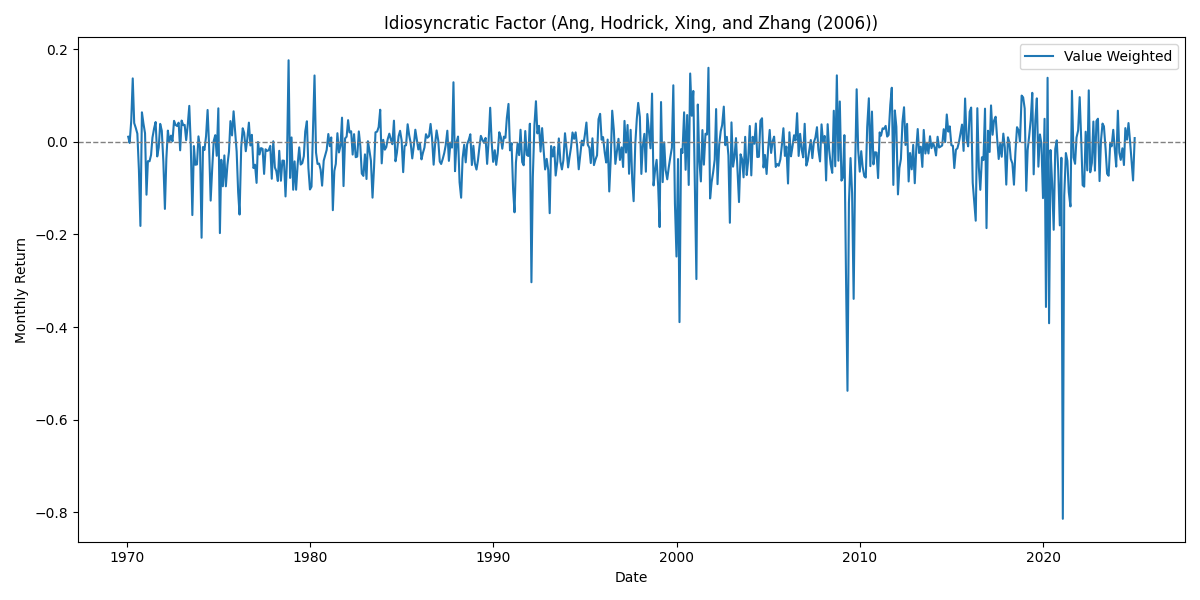
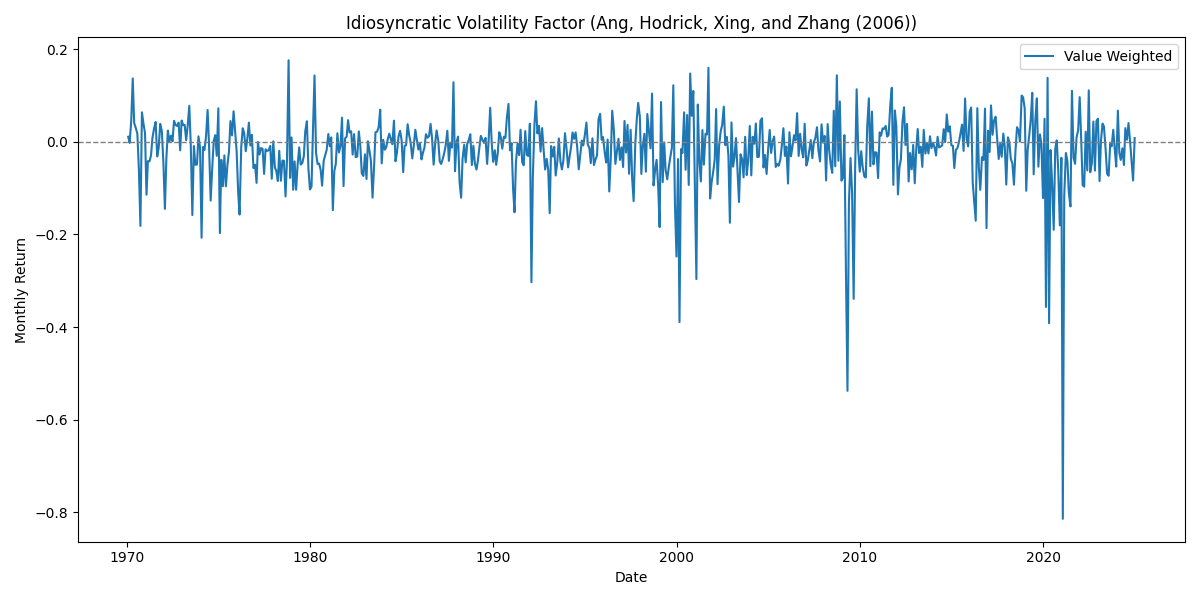
Add Equal Weighted and Risk Parity Portfolio

Changed region(s): [[0.2775, 0.03, 0.7708, 0.06]]

diff --git a/main.py b/main.py
@@ -9,6 +9,7 @@ import pandas as pd
 import matplotlib.pyplot as plt
 import wrds
 import time
+import importlib
 
 #  user-written modules
 import loading_data
@@ -18,6 +19,8 @@ import plots
 import momentum
 import idio_vol
 import CAPM_stats
+import optimal_fund
+importlib.reload(optimal_fund)
 
 pd.set_option('display.max_columns', None)
 pd.set_option('display.max_rows', None)
@@ -59,6 +62,8 @@ a = time.time()
 data = rolling_beta.beta_calculator(data, parquet_path=f'{project_path}/beta_parquet.parquet')
 b= time.time()
 print(f'Rolling Beta Calculation took {b-a: 0.2f} seconds')
+data = data.dropna(subset=['beta'])
+
 #----------------------------------------------------
 # Betting Against Beta (Frazzini & Pedersen (2014))
 #----------------------------------------------------
@@ -74,10 +79,15 @@ mom_factor = momentum.mom_return(mom_dataset)
 plots.signal_returns(mom_factor, 'date', 'MOM_return', 'Momentum Factor (Jegadeesh & Titman (1993))', 'Value Weighted', saving_path=f'{project_path}/momentum.png')
 CAPM_stats.statistics(mom_factor, 'MOM_return', mom_dataset)
 
-#--------------------------------------------------------
+#--------------------------------------------------------------
 # Idiosyncratic Strategy (Ang, Hodrick, Xing, and Zhang (2006))
-#---------------------------------------------------------
+#--------------------------------------------------------------
 idio_vol_dataset = data.copy()
 idio_vol_factor = idio_vol.ivol_return(idio_vol_dataset)
-plots.signal_returns(idio_vol_factor, 'date', 'IVOL_return', 'Idiosyncratic Factor (Ang, Hodrick, Xing, and Zhang (2006))', 'Value Weighted', saving_path=f'{project_path}/idio_vol.png')
+plots.signal_returns(idio_vol_factor, 'date', 'IVOL_return', 'Idiosyncratic Volatility Factor (Ang, Hodrick, Xing, and Zhang (2006))', 'Value Weighted', saving_path=f'{project_path}/idio_vol.png')
 CAPM_stats.statistics(idio_vol_factor, 'IVOL_return', idio_vol_dataset)
+
+#--------------------------------------------------------------
+# Optimal Fund Portfolio
+#--------------------------------------------------------------
+fund_portfolio = optimal_fund.fund_return(BAB_factor,mom_factor,idio_vol_factor)

diff --git a/optimal_fund.py b/optimal_fund.py
@@ -1,0 +1,32 @@
+import numpy as np
+import pandas as pd
+
+def risk_parity(data, window=12):
+    # Step 1: Compute rolling volatility and inverse vol weights
+    factors = data[['BAB_return', 'MOM_return', 'IVOL_return']]
+    volatility = factors.rolling(window=window).std()
+    inv_vol = 1 / volatility
+    RP_weights = inv_vol.div(inv_vol.sum(axis=1), axis=0).dropna()
+
+    # Step 2: Align the weights and returns on common dates
+    RiskParity = factors.copy()
+    common_dates = RP_weights.index.intersection(RiskParity.index)
+    RP_weights = RP_weights.loc[common_dates]
+    RiskParity = RiskParity.loc[common_dates]
+
+    # Step 3: Compute risk parity return
+    RiskParity['rp_return'] = (RP_weights * RiskParity).sum(axis=1)
+    RiskParity['date'] = data.loc[common_dates, 'date'].values
+    return RiskParity[['date', 'rp_return']]
+
+
+def fund_return(BAB_factor,mom_factor,idio_vol_factor):
+
+    fund_portfolio = BAB_factor
+    fund_portfolio = fund_portfolio.merge(mom_factor, on='date', how='inner').merge(idio_vol_factor, on='date', how='inner')
+    fund_portfolio['equal_return'] = fund_portfolio[['BAB_return', 'MOM_return', 'IVOL_return']].mean(axis=1)
+
+    RiskParity = risk_parity(fund_portfolio)
+    fund_portfolio = fund_portfolio.merge(RiskParity[['rp_return','date']], on='date', how='inner')
+
+    return fund_portfolio

diff --git a/BAB.py b/BAB.py
@@ -29,4 +29,4 @@ def bab_return(data):
     # Strategy weights
     data['BAB_Weights'] = data['w_L'] / data['beta_L_BAB'] - data['w_H'] / data['beta_H_BAB']
 
-    return data, BAB
+    return data, BAB[['date','BAB_return']]
